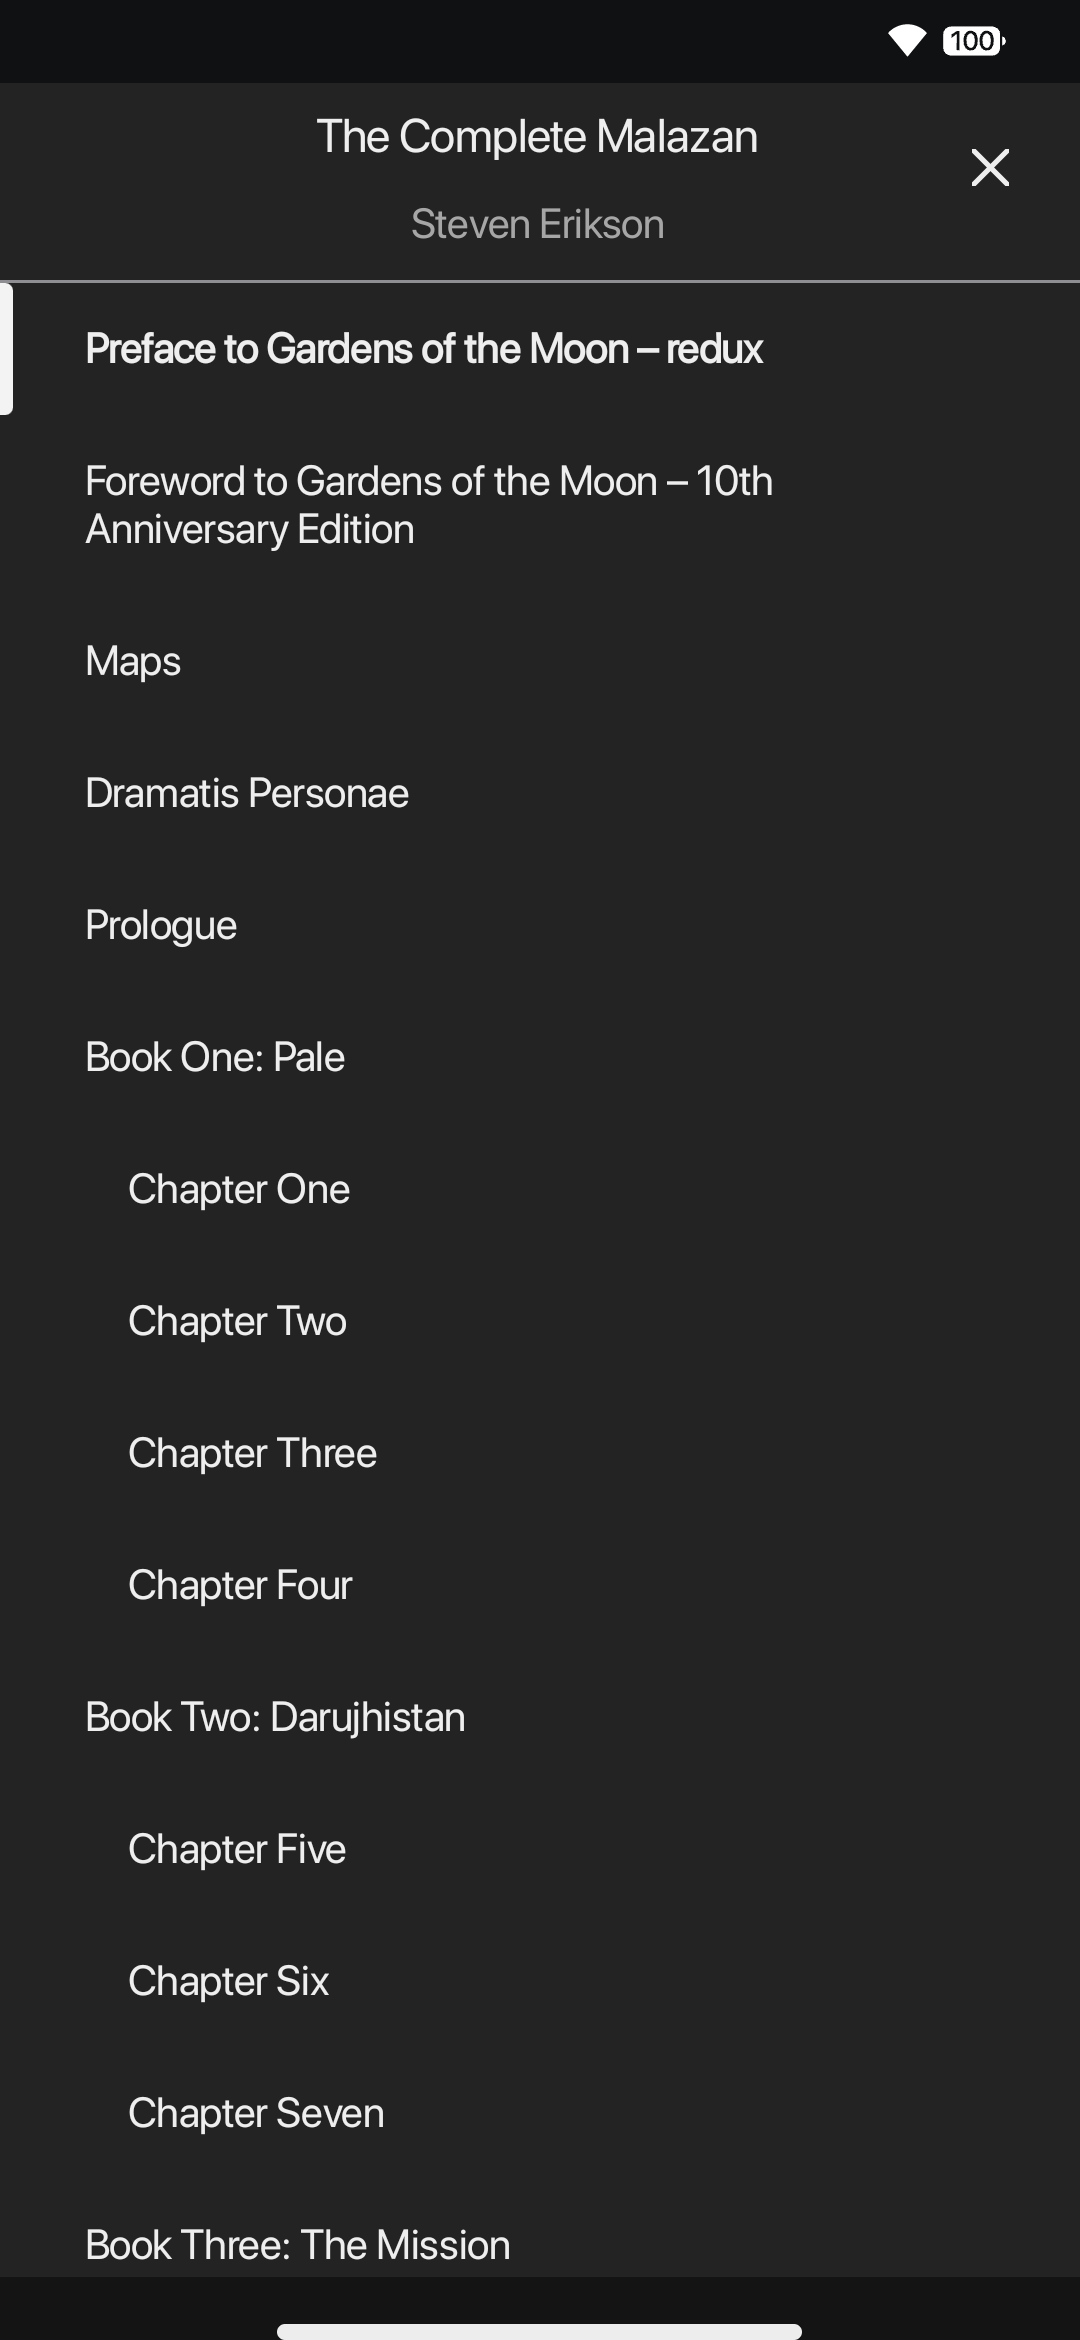
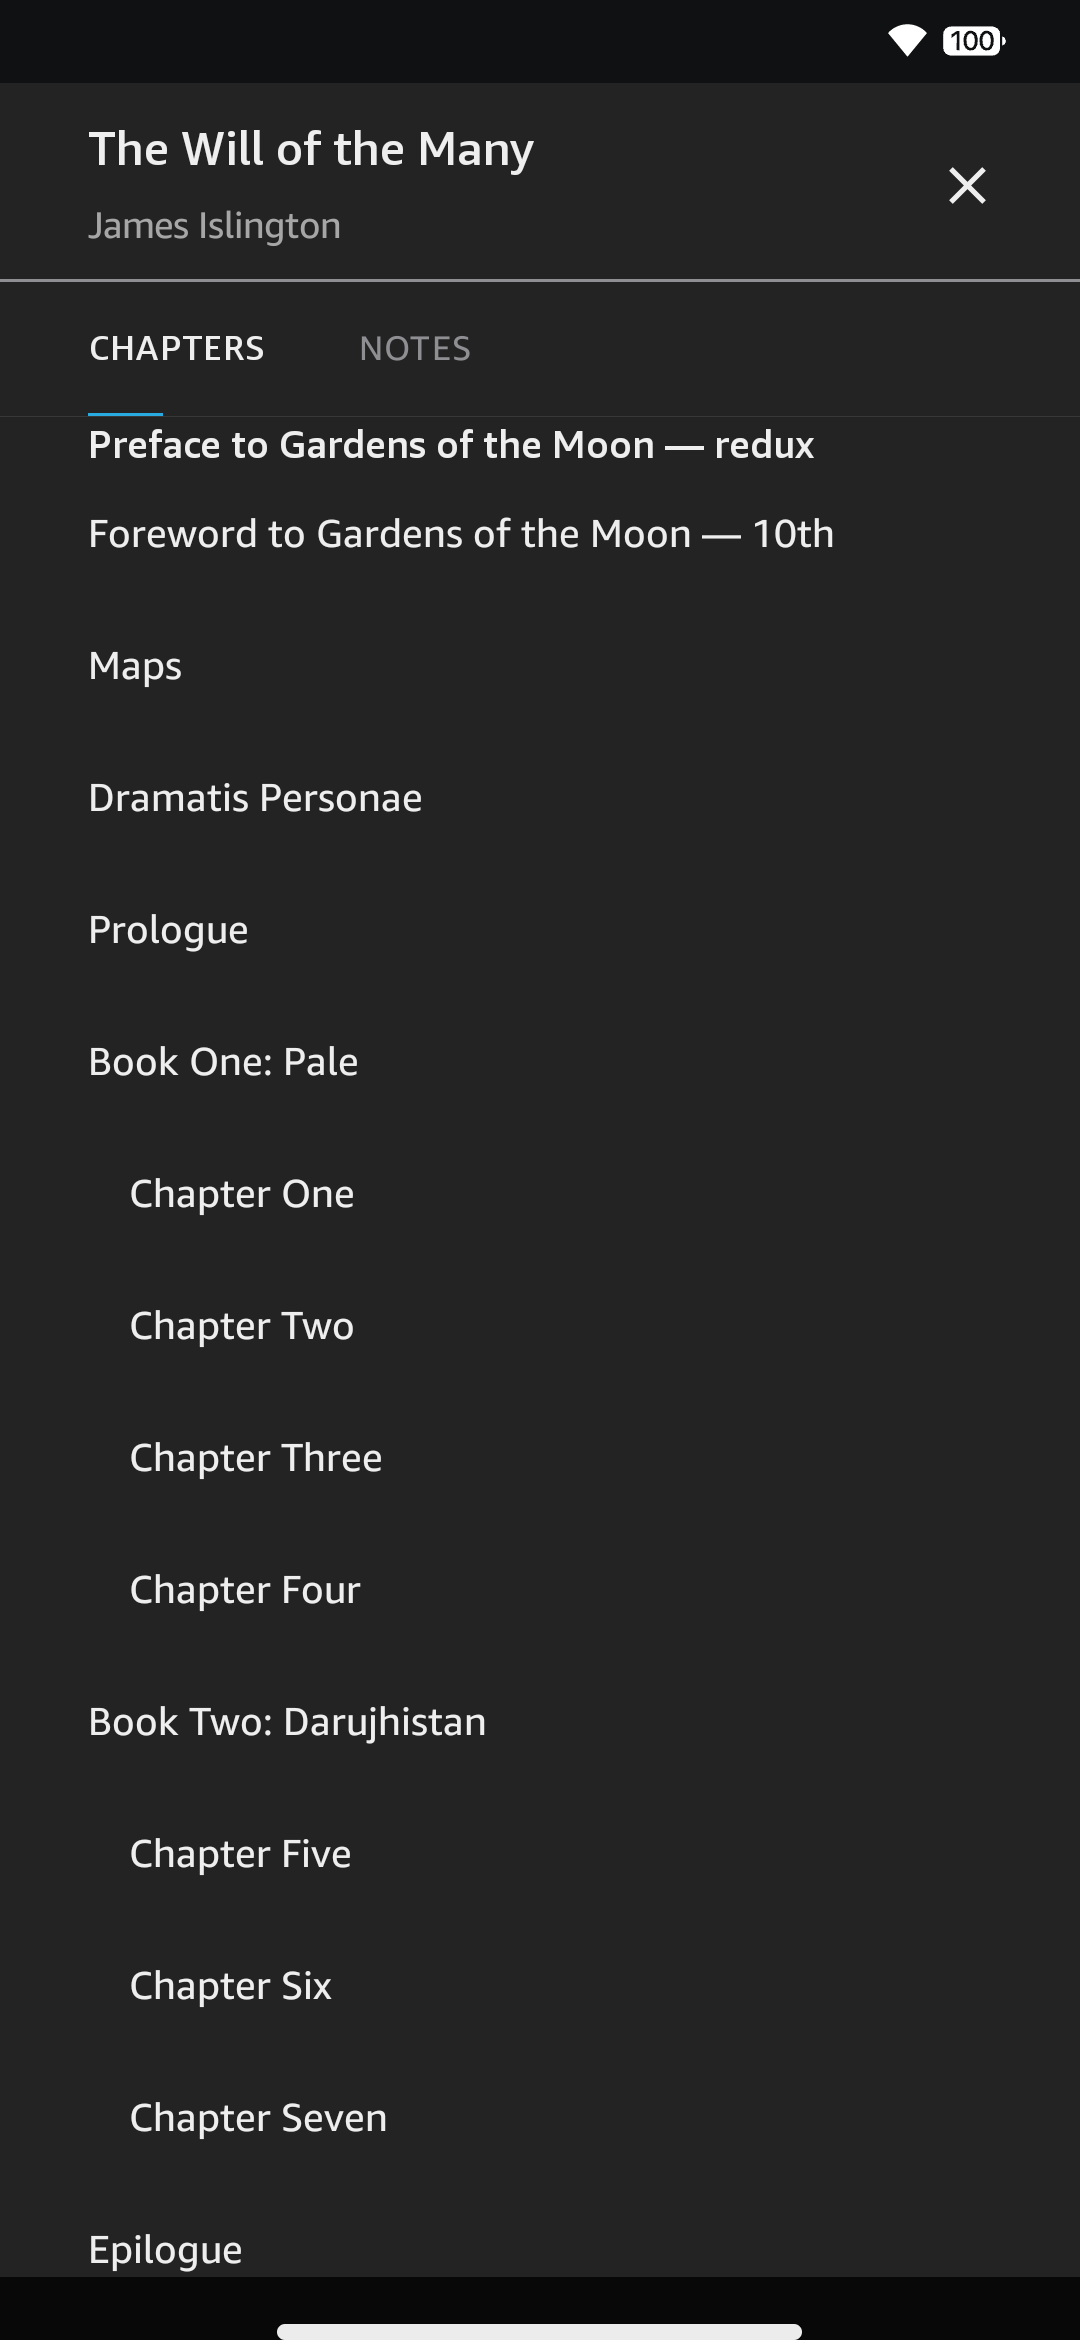
feat(real-ui): calibrate D11 Contents TOC screen and verify with honest harness

diff --git a/app/src/main/java/app/opusreader/ui/screens/ContentsTocScreen.kt b/app/src/main/java/app/opusreader/ui/screens/ContentsTocScreen.kt
@@ -1,12 +1,14 @@
 package app.opusreader.ui.screens
 
-import androidx.compose.foundation.Image
 import androidx.compose.foundation.background
 import androidx.compose.foundation.clickable
+import androidx.compose.foundation.layout.Arrangement
 import androidx.compose.foundation.layout.Box
 import androidx.compose.foundation.layout.Column
+import androidx.compose.foundation.layout.PaddingValues
 import androidx.compose.foundation.layout.Row
 import androidx.compose.foundation.layout.Spacer
+import androidx.compose.foundation.layout.fillMaxHeight
 import androidx.compose.foundation.layout.fillMaxSize
 import androidx.compose.foundation.layout.fillMaxWidth
 import androidx.compose.foundation.layout.height
@@ -19,37 +21,28 @@ import androidx.compose.material.icons.Icons
 import androidx.compose.material.icons.filled.Close
 import androidx.compose.material3.HorizontalDivider
 import androidx.compose.material3.Icon
-import androidx.compose.material3.IconButton
 import androidx.compose.material3.Text
 import androidx.compose.runtime.Composable
 import androidx.compose.runtime.collectAsState
 import androidx.compose.runtime.getValue
 import androidx.compose.ui.Alignment
 import androidx.compose.ui.Modifier
-import androidx.compose.ui.layout.ContentScale
-import androidx.compose.ui.res.painterResource
+import androidx.compose.ui.graphics.Color
 import androidx.compose.ui.text.font.FontWeight
 import androidx.compose.ui.tooling.preview.Preview
 import androidx.compose.ui.unit.dp
 import androidx.compose.ui.unit.sp
-import app.opusreader.R
 import app.opusreader.engine.FakeReaderEngine
 import app.opusreader.engine.ReaderEngine
 import app.opusreader.engine.TocItem
-import app.opusreader.ui.theme.OpusAccentBlue
-import app.opusreader.ui.theme.OpusDivider
 import app.opusreader.ui.theme.OpusReaderTheme
-import app.opusreader.ui.theme.OpusSpacing
-import app.opusreader.ui.theme.OpusSurface
-import app.opusreader.ui.theme.OpusTextPrimary
-import app.opusreader.ui.theme.OpusTextSecondary
 import app.opusreader.ui.theme.refPx
 
 @Composable
 fun ContentsTocScreen(
     engine: ReaderEngine,
-    bookTitle: String = "Gardens of the Moon",
-    bookAuthor: String = "Steven Erikson",
+    bookTitle: String = "The Will of the Many",
+    bookAuthor: String = "James Islington",
     onCloseClick: () -> Unit = {},
     modifier: Modifier = Modifier
 ) {
@@ -59,45 +52,116 @@ fun ContentsTocScreen(
     Column(
         modifier = modifier
             .fillMaxSize()
-            .background(OpusSurface)
+            .background(Color(0xFF232323))
     ) {
-        // Header
+        // Status bar space (y=0..90)
+        Spacer(modifier = Modifier.height(90.refPx))
+
+        // Header (y=90..279, height 189 px)
         Row(
             modifier = Modifier
                 .fillMaxWidth()
-                .padding(horizontal = OpusSpacing.standard, vertical = OpusSpacing.medium),
+                .height(189.refPx)
+                .padding(start = 88.refPx, end = 50.refPx),
             verticalAlignment = Alignment.CenterVertically
         ) {
             Column(modifier = Modifier.weight(1f)) {
                 Text(
                     text = bookTitle,
-                    color = OpusTextPrimary,
+                    color = Color(0xFFEEEEEE),
                     fontSize = 18.sp,
-                    fontWeight = FontWeight.Bold
+                    fontWeight = FontWeight.Bold,
+                    maxLines = 1
                 )
+                Spacer(modifier = Modifier.height(22.refPx))
                 Text(
                     text = bookAuthor,
-                    color = OpusTextSecondary,
-                    fontSize = 14.sp
+                    color = Color(0xFFA6A6A6),
+                    fontSize = 14.sp,
+                    maxLines = 1
                 )
             }
 
-            IconButton(onClick = onCloseClick) {
+            Box(
+                modifier = Modifier
+                    .size(48.dp)
+                    .clickable(onClick = onCloseClick),
+                contentAlignment = Alignment.Center
+            ) {
                 Icon(
                     imageVector = Icons.Default.Close,
                     contentDescription = "Close Table of Contents",
-                    tint = OpusTextPrimary
+                    tint = Color(0xFFEEEEEE),
+                    modifier = Modifier.size(24.dp)
                 )
             }
         }
 
-        HorizontalDivider(color = OpusDivider, thickness = 1.dp)
+        HorizontalDivider(color = Color(0xFF8E8E93), thickness = 3.refPx)
 
-        // Chapter list
-        LazyColumn(modifier = Modifier.fillMaxSize()) {
+        // Tabs Row (y=280..414, height 134 px)
+        Row(
+            modifier = Modifier
+                .fillMaxWidth()
+                .height(134.refPx)
+                .padding(horizontal = 88.refPx),
+            verticalAlignment = Alignment.CenterVertically
+        ) {
+            Column(
+                modifier = Modifier
+                    .fillMaxHeight()
+                    .clickable { /* Chapters tab */ },
+                verticalArrangement = Arrangement.Center
+            ) {
+                Spacer(modifier = Modifier.weight(1f))
+                Text(
+                    text = "CHAPTERS",
+                    color = Color(0xFFEEEEEE),
+                    fontSize = 13.sp,
+                    fontWeight = FontWeight.SemiBold,
+                    letterSpacing = 0.5.sp
+                )
+                Spacer(modifier = Modifier.weight(1f))
+                Box(
+                    modifier = Modifier
+                        .width(75.refPx)
+                        .height(3.refPx)
+                        .background(Color(0xFF29ABE2))
+                )
+            }
+
+            Spacer(modifier = Modifier.width(90.refPx))
+
+            Column(
+                modifier = Modifier
+                    .fillMaxHeight()
+                    .clickable { /* Notes tab */ },
+                verticalArrangement = Arrangement.Center
+            ) {
+                Spacer(modifier = Modifier.weight(1f))
+                Text(
+                    text = "NOTES",
+                    color = Color(0xFF8E8E93),
+                    fontSize = 13.sp,
+                    fontWeight = FontWeight.Normal,
+                    letterSpacing = 0.5.sp
+                )
+                Spacer(modifier = Modifier.weight(1f))
+                Spacer(modifier = Modifier.height(3.refPx))
+            }
+        }
+
+        HorizontalDivider(color = Color(0xFF383838), thickness = 1.refPx)
+
+        // Chapter list (15 rows, pitch 132 px)
+        LazyColumn(
+            modifier = Modifier.fillMaxSize()
+        ) {
             items(tocList, key = { it.id }) { item ->
+                val isFirst = item.id == tocList.firstOrNull()?.id
                 TocRow(
                     item = item,
+                    isFirst = isFirst,
                     isCurrent = item.title == currentLocation.chapterTitle,
                     onClick = {
                         engine.jumpToLocation(item.targetLocation)
@@ -107,6 +171,7 @@ fun ContentsTocScreen(
                 item.children.forEach { child ->
                     TocRow(
                         item = child,
+                        isFirst = false,
                         isCurrent = child.title == currentLocation.chapterTitle,
                         onClick = {
                             engine.jumpToLocation(child.targetLocation)
@@ -122,42 +187,32 @@ fun ContentsTocScreen(
 @Composable
 private fun TocRow(
     item: TocItem,
+    isFirst: Boolean,
     isCurrent: Boolean,
     onClick: () -> Unit
 ) {
-    Row(
+    Box(
         modifier = Modifier
             .fillMaxWidth()
+            .height(if (isFirst) 49.refPx else 132.refPx)
             .clickable { onClick() }
             .padding(
-                start = if (item.level > 0) 36.dp else OpusSpacing.standard,
-                end = OpusSpacing.standard,
-                top = 14.dp,
-                bottom = 14.dp
+                start = if (item.level > 0) 129.refPx else 88.refPx,
+                end = 88.refPx
             ),
-        verticalAlignment = Alignment.CenterVertically
+        contentAlignment = Alignment.CenterStart
     ) {
-        if (isCurrent) {
-            Box(
-                modifier = Modifier
-                    .size(width = 4.dp, height = 18.dp)
-                    .background(OpusAccentBlue)
-            )
-            Spacer(modifier = Modifier.width(OpusSpacing.small))
-        }
-
         Text(
             text = item.title,
-            color = if (isCurrent) OpusTextPrimary else OpusTextSecondary,
+            color = Color(0xFFEEEEEE),
             fontSize = 15.sp,
             fontWeight = if (isCurrent) FontWeight.Bold else FontWeight.Normal,
-            modifier = Modifier.weight(1f)
+            maxLines = 1
         )
     }
-    HorizontalDivider(color = OpusDivider.copy(alpha = 0.3f), thickness = 0.5.dp)
 }
 
-@Preview(name = "11 Contents TOC Preview", showBackground = true, backgroundColor = 0xFF232323)
+@Preview(name = "11 Contents Preview", showBackground = true, backgroundColor = 0xFF232323)
 @Composable
 fun ContentsTocScreenPreview() {
     OpusReaderTheme {

diff --git a/app/src/main/java/app/opusreader/engine/FakeReaderEngine.kt b/app/src/main/java/app/opusreader/engine/FakeReaderEngine.kt
@@ -72,41 +72,42 @@ Paran stood, buckling his sword-belt. Outside, the sky burned with the unnatural
                 id = "toc_1",
                 title = "Preface to Gardens of the Moon — redux",
                 level = 0,
-                targetLocation = 91
+                targetLocation = 1
             ),
             TocItem(
                 id = "toc_2",
-                title = "Foreword to Gardens of the Moon — 10th Anniversary Edition",
+                title = "Foreword to Gardens of the Moon — 10th Anniversary",
                 level = 0,
-                targetLocation = 140
+                targetLocation = 91
             ),
             TocItem(
                 id = "toc_3",
                 title = "Maps",
                 level = 0,
-                targetLocation = 180
+                targetLocation = 140
             ),
             TocItem(
                 id = "toc_4",
                 title = "Dramatis Personae",
                 level = 0,
-                targetLocation = 220
+                targetLocation = 180
             ),
             TocItem(
                 id = "toc_5",
                 title = "Prologue",
                 level = 0,
-                targetLocation = 250
+                targetLocation = 220
             ),
             TocItem(
                 id = "toc_6",
                 title = "Book One: Pale",
                 level = 0,
-                targetLocation = 320,
+                targetLocation = 250,
                 children = listOf(
                     TocItem("toc_6_1", "Chapter One", 1, 330),
                     TocItem("toc_6_2", "Chapter Two", 1, 410),
-                    TocItem("toc_6_3", "Chapter Three", 1, 520)
+                    TocItem("toc_6_3", "Chapter Three", 1, 520),
+                    TocItem("toc_6_4", "Chapter Four", 1, 600)
                 )
             ),
             TocItem(
@@ -115,9 +116,16 @@ Paran stood, buckling his sword-belt. Outside, the sky burned with the unnatural
                 level = 0,
                 targetLocation = 640,
                 children = listOf(
-                    TocItem("toc_7_1", "Chapter Four", 1, 650),
-                    TocItem("toc_7_2", "Chapter Five", 1, 740)
+                    TocItem("toc_7_1", "Chapter Five", 1, 650),
+                    TocItem("toc_7_2", "Chapter Six", 1, 740),
+                    TocItem("toc_7_3", "Chapter Seven", 1, 800)
                 )
+            ),
+            TocItem(
+                id = "toc_8",
+                title = "Epilogue",
+                level = 0,
+                targetLocation = 850
             )
         )
     )

diff --git a/docs/FIDELITY_REPORT.md b/docs/FIDELITY_REPORT.md
@@ -8,7 +8,7 @@ Thresholds per screen (outside masks):
 
 | ID | Screen Name | Reference File | Diff % | Worst Offset (px) | Liveness | Scroll | Status | Notes |
 |---|---|---|---|---|---|---|---|---|
-| D10 | Reader chrome visible (dark) | `docs/reference/10_reader-chrome-visible.png` | 4.30% | 0 px | PASS | N/A | FAIL | bad: 4.3%, dy: 0px |
+| D11 | Contents | `docs/reference/11_contents-toc.png` | 4.81% | 56 px | PASS | PASS | FAIL | bad: 4.81%, dy: 56px |
 
 ## Summary
 - **Total canonical screens evaluated**: 1
